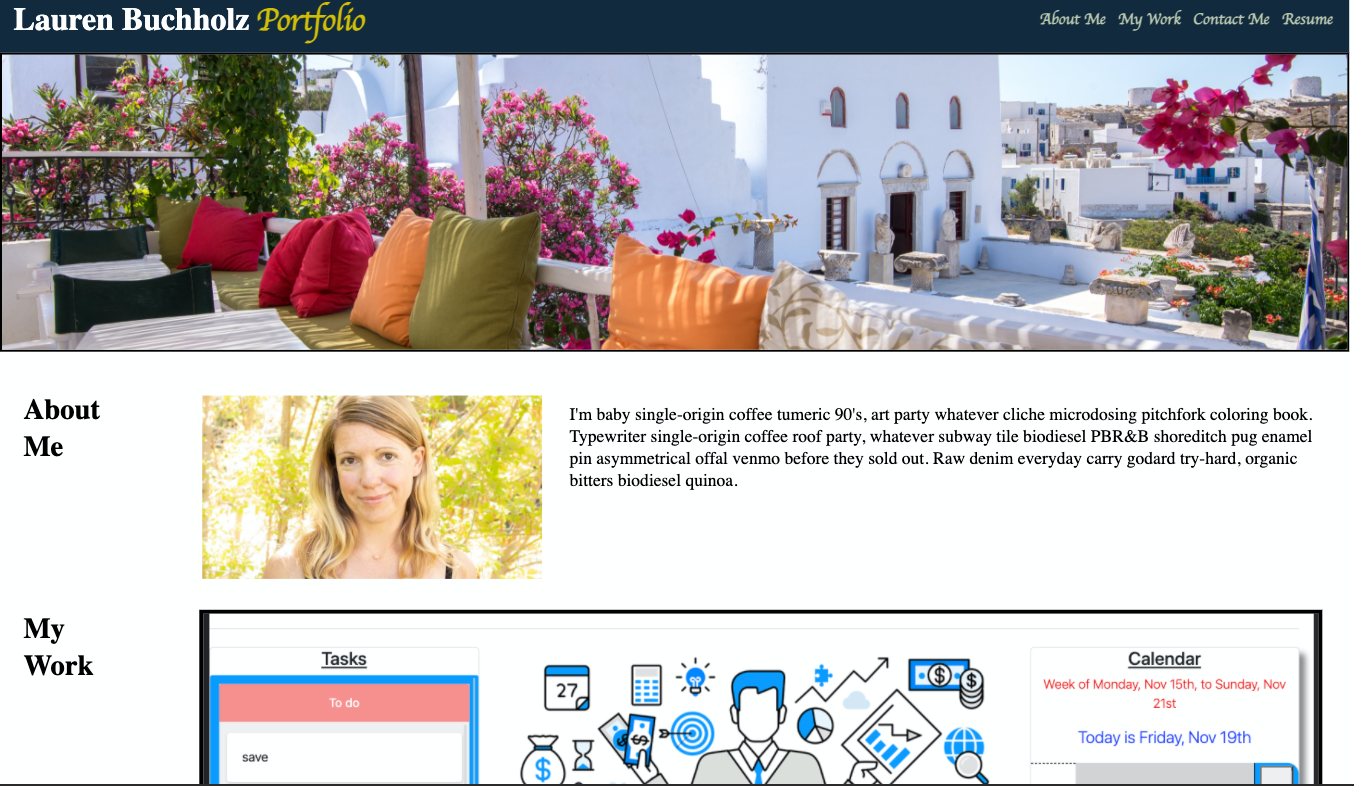
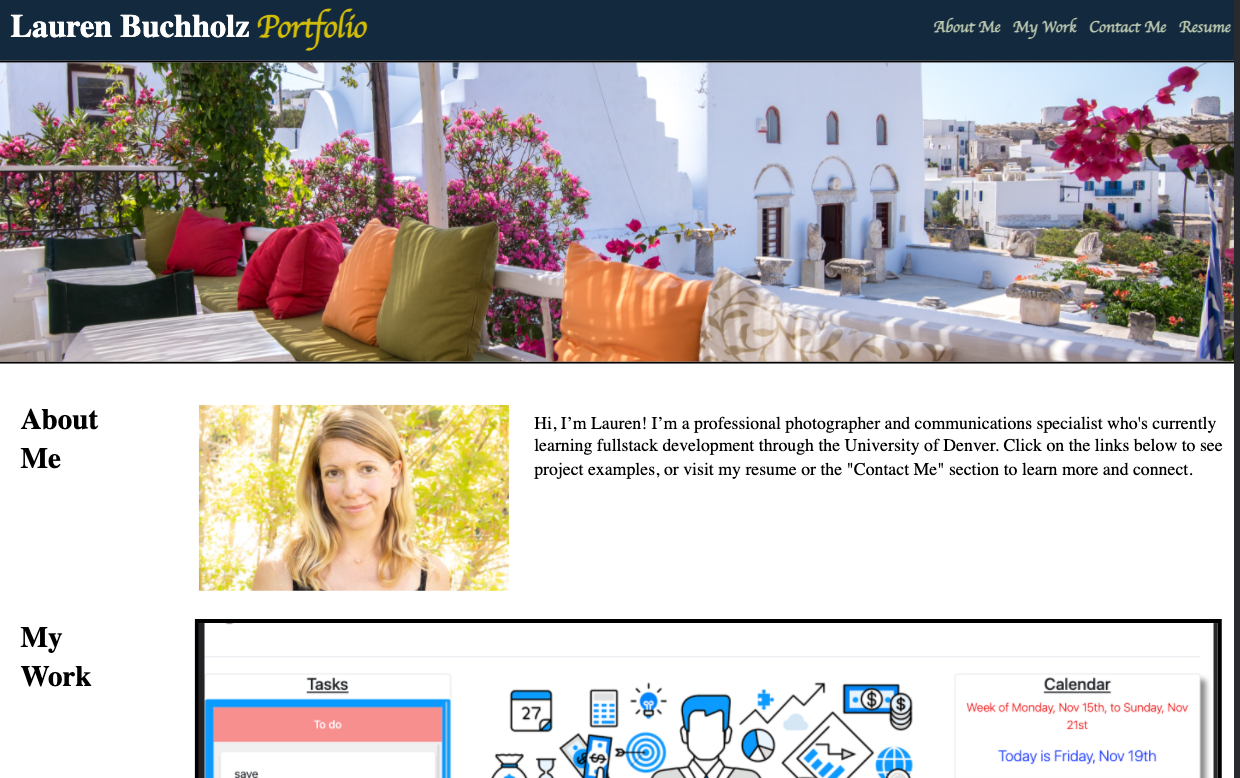
Updated portfolio

diff --git a/index.html b/index.html
@@ -16,8 +16,12 @@
           <li><a href="#about-me">About Me</a></li>
           <li><a href="#my-work">My Work</a></li>
           <li><a href="#contact-me">Contact Me</a></li>
-          <li class="tooltip">
-            <a href="#">Resume</a><span class="tooltiptext">Coming soon</span>
+          <li>
+            <a
+              href="https://drive.google.com/file/d/17YUD3RYDvmX_bB3Ji5bss53g-BrWwTAJ/view"
+              target="blank"
+              >Resume</a
+            >
           </li>
         </ul>
       </nav>
@@ -41,12 +45,11 @@
               alt="Lauren Buchholz self-portrait (&copy;Lauren Buchholz)"
             />
             <p>
-              I'm baby single-origin coffee tumeric 90's, art party whatever
-              cliche microdosing pitchfork coloring book. Typewriter
-              single-origin coffee roof party, whatever subway tile biodiesel
-              PBR&B shoreditch pug enamel pin asymmetrical offal venmo before
-              they sold out. Raw denim everyday carry godard try-hard, organic
-              bitters biodiesel quinoa.
+              Hi, I’m Lauren! I’m a professional photographer and communications
+              specialist who's currently learning fullstack development through
+              the University of Denver. Click on the links below to see project
+              examples, or visit my resume or the "Contact Me" section to learn
+              more and connect.
             </p>
           </figure>
         </article>
@@ -66,23 +69,19 @@
         </article>
         <article>
           <div class="blankspace"></div>
-          <div class="examples">
-            <!--Remove "examples::after from CSS for just this project?s-->
-            <!--Include: Project description, *target BLANK repo link*, and screenshot for each project-->
-            <a href="#">
+          <div class="examples github-link" id="examples1">
+            <a href="https://l-buchholz.github.io/code-quiz/" target="blank">
               <img
-                src="./assets/images/Baja_dolphins.jpg"
-                alt="Placeholder image for future application links (&copy;Lauren Buchholz)"
+                src="./assets/images/nursery-rhymes-quiz.png"
+                alt="Interactive timed nursery rhymes quiz (&copy;Lauren Buchholz)"
               />
             </a>
           </div>
-          <div class="examples">
-            <!--Remove "examples::after from CSS-->
-            <!--Include: Project description, *target BLANK repo link*, and screenshot for each project-->
-            <a href="#">
+          <div class="examples github-link" id="examples2">
+            <a href="https://l-buchholz.github.io/day-calendar/" target="blank">
               <img
-                src="./assets/images/Baja.jpg"
-                alt="Placeholder image for future application links (&copy;Lauren Buchholz)"
+                src="./assets/images/workday-calendar.png"
+                alt="Interactive workday scheduler (&copy;Lauren Buchholz)"
               />
             </a>
           </div>
@@ -92,8 +91,6 @@
             <h2 id="contact-me">Contact Me</h2>
           </div>
           <ul>
-            <li><a href="#">[Phone number]</a></li>
-            <li><a href="#">[Email]</a></li>
             <li>
               <a href="https://github.com/L-Buchholz" target="blank">GitHub</a>
             </li>
@@ -102,6 +99,13 @@
                 href="https://www.linkedin.com/in/naturalvisions/"
                 target="blank"
                 >LinkedIn</a
+              >
+            </li>
+            <li>
+              <a
+                href="https://laurenbuchholz.photoshelter.com/contact"
+                target="blank"
+                >Contact page</a
               >
             </li>
           </ul>

diff --git a/assets/css/style.css b/assets/css/style.css
@@ -41,6 +41,14 @@ h1::after {
   cursor: pointer;
 }
 
+/*
+TOOLTIPS
+
+HTML: 
+<[div] class="tooltip">
+    <span class="tooltiptext">[Text in tooltip]</span>
+</[div]>
+
 .tooltip .tooltiptext {
   visibility: hidden;
   width: 50px;
@@ -61,6 +69,7 @@ h1::after {
 .tooltip:hover .tooltiptext {
   visibility: visible;
 }
+*/
 
 h2 {
   font-size: 180%;
@@ -164,19 +173,49 @@ including "Example" content boxes */
   border-style: solid;
   border-width: 4px;
   position: relative;
-  font-family: cursive;
 }
 
+/*
+<!--Include: *target BLANK repo link*?-->
+.github-link::after ?
 .examples::after {
-  content: "Example";
-  text-align: center;
-  border-radius: 5px;
-  width: 80px;
-  height: 22px;
+  content: "Click here for GitHub repo";
+  text-align: left;
+  padding-left: 5px;
+  border-radius: 2px;
+  width: 140px;
+  height: 42px;
+  background: #fff;
+  position: absolute;
+  right: 0;
+  bottom: 0;
+}
+*/
+
+#examples1::after {
+  content: "Interactive timed nursery rhymes quiz";
+  text-align: left;
+  padding-left: 5px;
+  border-radius: 2px solid black;
+  width: 140px;
+  height: 42px;
   background: #fff;
   position: absolute;
   left: 0;
-  top: 0;
+  bottom: 0;
+}
+
+#examples2::after {
+  content: "Interactive workday tasks scheduler";
+  text-align: left;
+  padding-left: 5px;
+  border-radius: 2px solid black;
+  width: 140px;
+  height: 42px;
+  background: #fff;
+  position: absolute;
+  left: 0;
+  bottom: 0;
 }
 
 img {
@@ -197,7 +236,19 @@ versus others, including "Example" content box */
   border-style: solid;
   border-width: 4px;
   position: relative;
-  font-family: cursive;
+}
+
+.example1::after {
+  content: "uProjekt: Interactive project management application";
+  text-align: left;
+  padding-left: 5px;
+  border-radius: 2px solid black;
+  width: 190px;
+  height: 42px;
+  background: #fff;
+  position: absolute;
+  left: 0;
+  bottom: 0;
 }
 
 #top {

diff --git a/README.md b/README.md
@@ -13,7 +13,9 @@ An employer/hiring manager has requested a portfolio page highlighting my experi
 ## UPDATE -- 11/20/2021
 
 - My first project -- a collaborative group effort on the demo uProjekt project management program -- has been added to the "My Work" section with a deployed URL.
-- A LinkedIn profile has been added to the "Contact" section.
+- Two other coding assignments have been added to "My Work".
+- A resume has been updated and posted online.
+- GitHub and LinkedIn have been updated.
 
 Additionally, all images have alt tags attributed to them for accessibility and the CSS includes comments.
 
